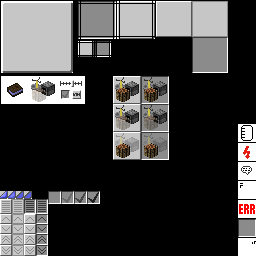
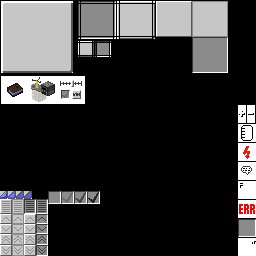
Added visual indicator when clicking an item would add/remove from filter

Changed region(s): [[0.4375, 0.2812, 0.6875, 0.625], [0.9062, 0.4062, 1.0, 0.5]]

diff --git a/src/main/java/uristqwerty/CraftGuide/client/ui/FilterCombineModeDisplay.java b/src/main/java/uristqwerty/CraftGuide/client/ui/FilterCombineModeDisplay.java
@@ -1,0 +1,35 @@
+package uristqwerty.CraftGuide.client.ui;
+
+import org.lwjgl.input.Keyboard;
+
+import uristqwerty.gui_craftguide.components.GuiElement;
+import uristqwerty.gui_craftguide.texture.DynamicTexture;
+import uristqwerty.gui_craftguide.texture.Texture;
+
+public class FilterCombineModeDisplay extends GuiElement
+{
+	private Texture add = DynamicTexture.instance("filter-add");
+	private Texture remove = DynamicTexture.instance("filter-remove");
+
+	public FilterCombineModeDisplay(int x, int y)
+	{
+		super(x, y, 8, 18);
+	}
+
+	@Override
+	public void drawBackground()
+	{
+		super.drawBackground();
+
+		boolean shift = Keyboard.isKeyDown(Keyboard.KEY_LSHIFT) || Keyboard.isKeyDown(Keyboard.KEY_RSHIFT);
+		boolean ctrl = Keyboard.isKeyDown(Keyboard.KEY_LCONTROL) || Keyboard.isKeyDown(Keyboard.KEY_RCONTROL);
+		if(shift)
+		{
+			render(add, 0, 0, this.width(), this.height());
+		}
+		else if(ctrl)
+		{
+			render(remove, 0, 0, this.width(), this.height());
+		}
+	}
+}

diff --git a/src/main/java/uristqwerty/CraftGuide/GuiCraftGuide.java b/src/main/java/uristqwerty/CraftGuide/GuiCraftGuide.java
@@ -14,6 +14,7 @@ import uristqwerty.CraftGuide.client.FilterDisplay;
 import uristqwerty.CraftGuide.client.ui.ButtonTemplate;
 import uristqwerty.CraftGuide.client.ui.CraftTypeDisplay;
 import uristqwerty.CraftGuide.client.ui.CraftingDisplay;
+import uristqwerty.CraftGuide.client.ui.FilterCombineModeDisplay;
 import uristqwerty.CraftGuide.client.ui.FilterSelectGrid;
 import uristqwerty.CraftGuide.client.ui.GuiButton;
 import uristqwerty.CraftGuide.client.ui.GuiButton.ButtonState;
@@ -214,6 +215,10 @@ public class GuiCraftGuide extends Gui
 		filter = new FilterDisplay(41, 147);
 		filter.anchor(AnchorPoint.BOTTOM_LEFT);
 		recipeTab.addElement(filter);
+
+		recipeTab.addElement(
+				new FilterCombineModeDisplay(59, 147)
+				.anchor(AnchorPoint.BOTTOM_LEFT));
 
 		GuiElement recipeArea = new GuiElement(0, 0, initialWindowWidth, initialWindowHeight)
 			.anchor(AnchorPoint.TOP_LEFT, AnchorPoint.BOTTOM_RIGHT)
